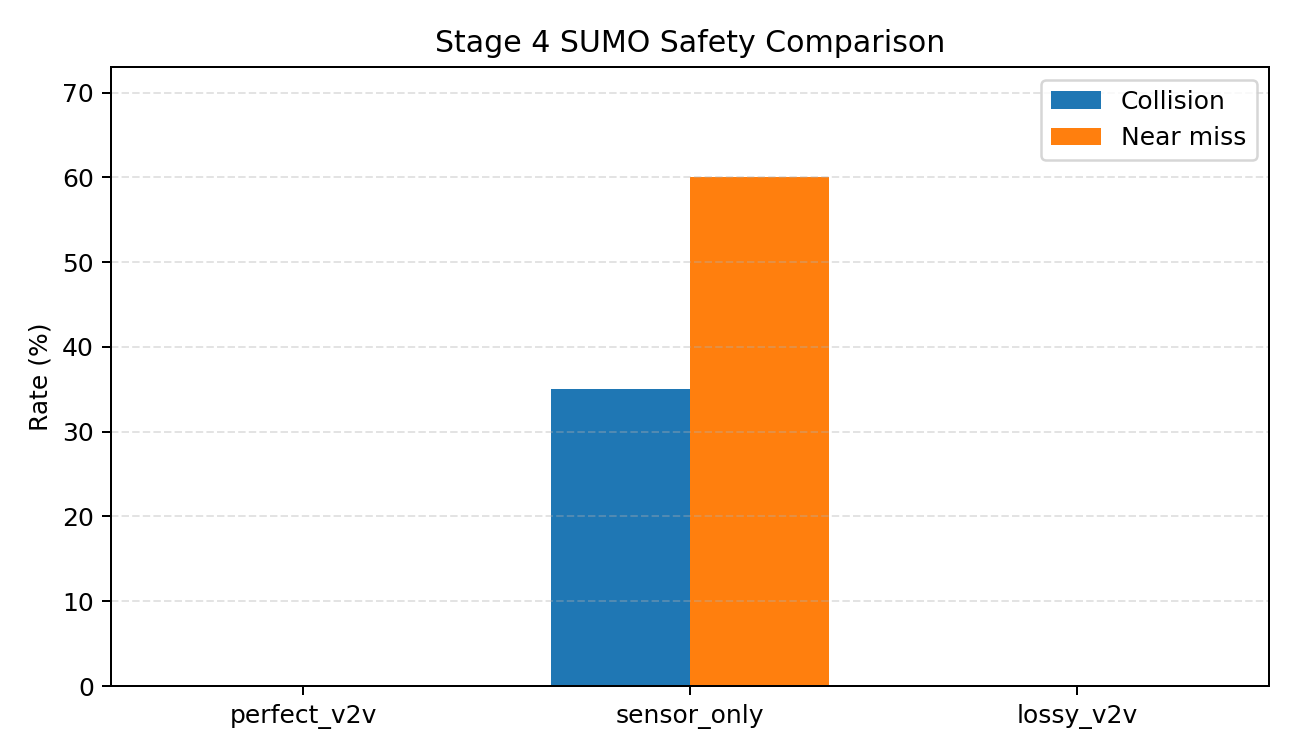
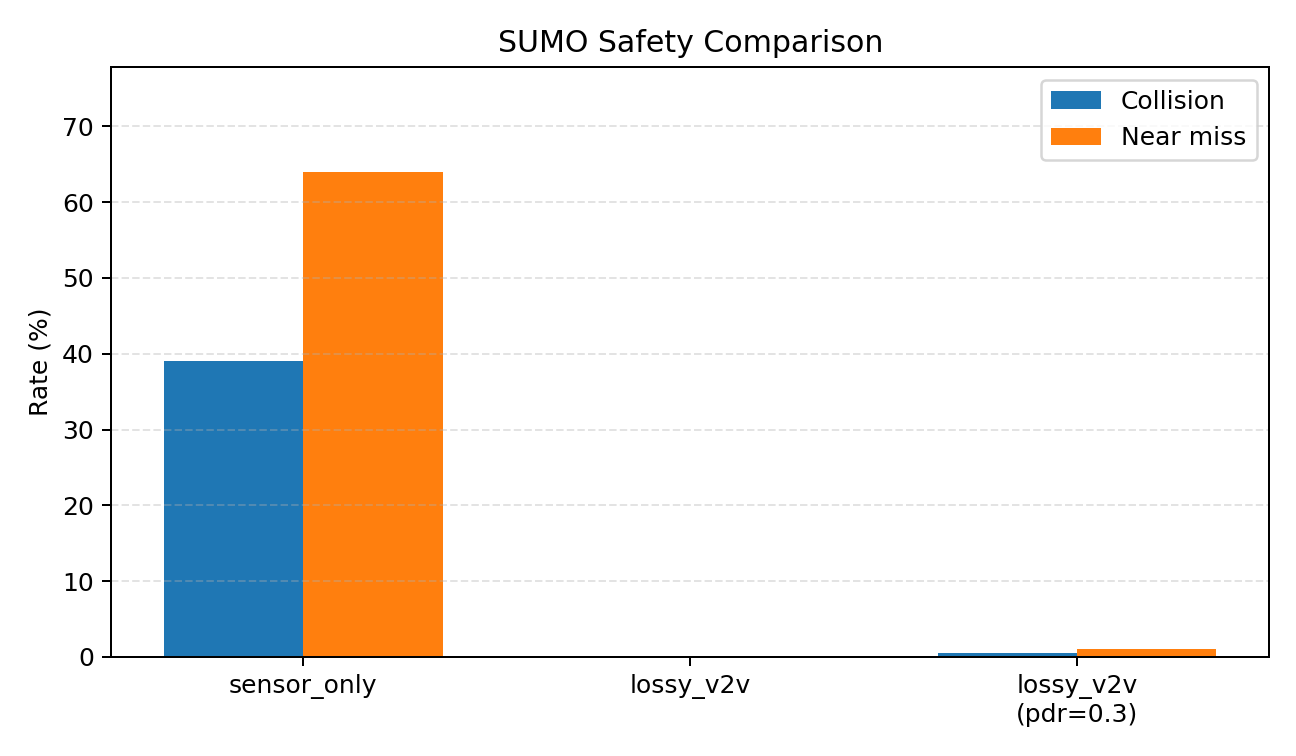
Update safety bar chart: drop perfect, add lossy PDR 0.3.
README comparison now uses canonical sensor / lossy / lossy@0.3 rates and a Stage-4-free title.

diff --git a/v2v_rebuild/plot_sumo_pdr_results.py b/v2v_rebuild/plot_sumo_pdr_results.py
@@ -11,6 +11,8 @@ RUNS_DIR = Path("runs")
 OUT_DIR = Path("presentation")
 SUMMARY = RUNS_DIR / "sumo_pdr_sweep_summary.csv"
 COMPARE = RUNS_DIR / "sumo_stage4_3x3_comparison.csv"
+# Canonical final metrics (preferred source for the README safety bar).
+FINAL_SUMMARY = OUT_DIR / "테스트지표2" / "summary_final.csv"
 
 
 def _read_rows(path: Path) -> list[dict[str, str]]:
@@ -60,18 +62,44 @@ def line_plot(
 
 
 def grouped_safety_bar() -> None:
-    rows = _read_rows(COMPARE)
-    selected = [
-        row for row in rows
-        if (row["train_model"], row["eval_mode"]) in {
-            ("perfect_v2v", "perfect_v2v"),
-            ("lossy_v2v", "lossy_v2v"),
-            ("sensor_only", "sensor_only"),
-        }
-    ]
-    labels = [row["eval_mode"] for row in selected]
-    collision = [float(row["collision_rate"]) * 100.0 for row in selected]
-    near_miss = [float(row["near_miss_rate"]) * 100.0 for row in selected]
+    """README bar: sensor / lossy / lossy@PDR0.3 (no perfect)."""
+    # Prefer canonical final metrics; fall back to stage4 matched diagonal.
+    labels: list[str]
+    collision: list[float]
+    near_miss: list[float]
+
+    if FINAL_SUMMARY.exists():
+        by_name = {row["scenario"]: row for row in _read_rows(FINAL_SUMMARY)}
+        order = [
+            ("sensor", "sensor_only"),
+            ("lossy", "lossy_v2v"),
+            ("lossy_pdr03", "lossy_v2v\n(pdr=0.3)"),
+        ]
+        missing = [key for key, _ in order if key not in by_name]
+        if missing:
+            raise KeyError(f"missing scenarios in {FINAL_SUMMARY}: {missing}")
+        labels = [label for _, label in order]
+        collision = [float(by_name[key]["collision_rate"]) * 100.0 for key, _ in order]
+        near_miss = [float(by_name[key]["near_miss_rate"]) * 100.0 for key, _ in order]
+    else:
+        rows = _read_rows(COMPARE)
+        selected = [
+            row for row in rows
+            if (row["train_model"], row["eval_mode"]) in {
+                ("sensor_only", "sensor_only"),
+                ("lossy_v2v", "lossy_v2v"),
+            }
+        ]
+        # PDR 0.3 from sweep summary if available.
+        labels = [row["eval_mode"] for row in selected]
+        collision = [float(row["collision_rate"]) * 100.0 for row in selected]
+        near_miss = [float(row["near_miss_rate"]) * 100.0 for row in selected]
+        if SUMMARY.exists():
+            sweep = {float(r["pdr_scale"]): r for r in _read_rows(SUMMARY)}
+            if 0.3 in sweep:
+                labels.append("lossy_v2v\n(pdr=0.3)")
+                collision.append(float(sweep[0.3]["collision_rate"]) * 100.0)
+                near_miss.append(float(sweep[0.3]["near_miss_rate"]) * 100.0)
 
     x = list(range(len(labels)))
     width = 0.36
@@ -80,7 +108,7 @@ def grouped_safety_bar() -> None:
     plt.bar([i + width / 2 for i in x], near_miss, width, label="Near miss")
     plt.xticks(x, labels)
     plt.ylabel("Rate (%)")
-    plt.title("Stage 4 SUMO Safety Comparison")
+    plt.title("SUMO Safety Comparison")
     plt.ylim(0, max(max(collision), max(near_miss)) * 1.2 + 1)
     plt.grid(axis="y", linestyle="--", alpha=0.35)
     plt.legend()
